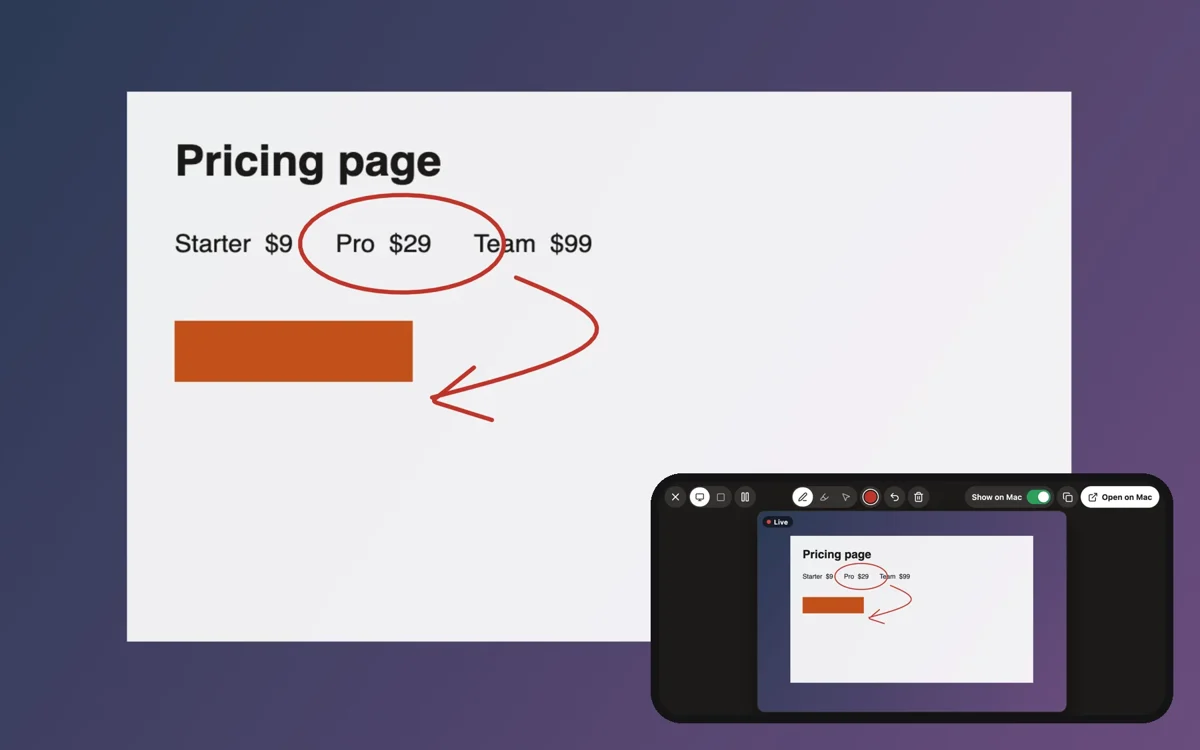
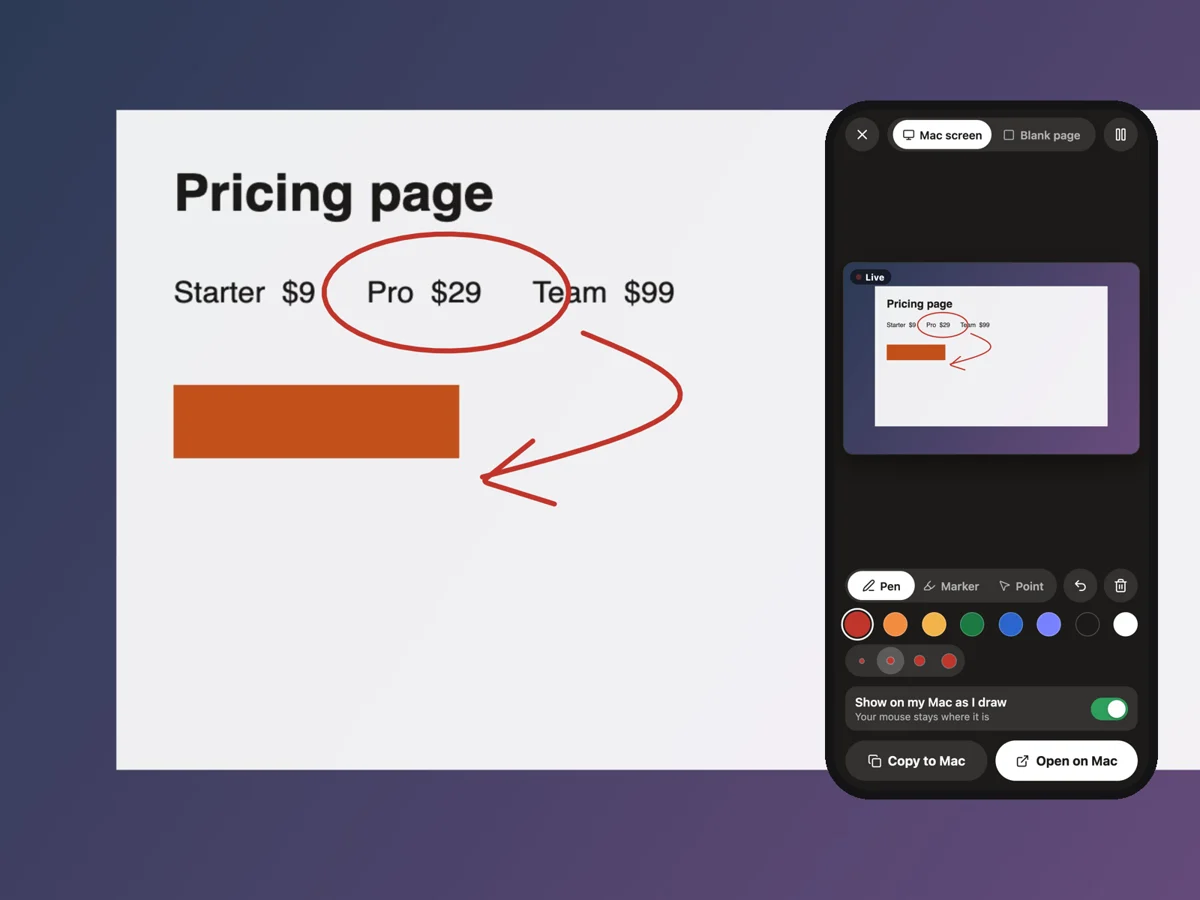
export b0acf10f7

diff --git a/README.md b/README.md
@@ -26,7 +26,7 @@
   <tr>
     <td align="center" width="96"><a href="https://getmightymouse.com/vs/conductor/"><img src=".github/assets/alt/conductor.png" width="48" alt="Conductor"><br><sub>Conductor</sub></a></td>
     <td align="center" width="96"><a href="https://getmightymouse.com/vs/t3-code/"><img src=".github/assets/alt/t3code.png" width="48" alt="T3 Code"><br><sub>T3 Code</sub></a></td>
-    <td align="center" width="96"><a href="#one-app-instead-of-five"><img src=".github/assets/alt/clicky.png" width="48" alt="Clicky"><br><sub>Clicky</sub></a></td>
+    <td align="center" width="96"><a href="https://getmightymouse.com/vs/clicky/"><img src=".github/assets/alt/clicky.png" width="48" alt="Clicky"><br><sub>Clicky</sub></a></td>
     <td align="center" width="96"><a href="https://getmightymouse.com/vs/t3-chat/"><img src=".github/assets/alt/t3chat.png" width="48" alt="T3 Chat"><br><sub>T3 Chat</sub></a></td>
     <td align="center" width="96"><a href="https://getmightymouse.com/vs/chatgpt/"><img src=".github/assets/alt/chatgpt.png" width="48" alt="ChatGPT app"><br><sub>ChatGPT app</sub></a></td>
     <td align="center" width="96"><a href="https://getmightymouse.com/vs/claude/"><img src=".github/assets/alt/claude.png" width="48" alt="Claude app"><br><sub>Claude app</sub></a></td>
